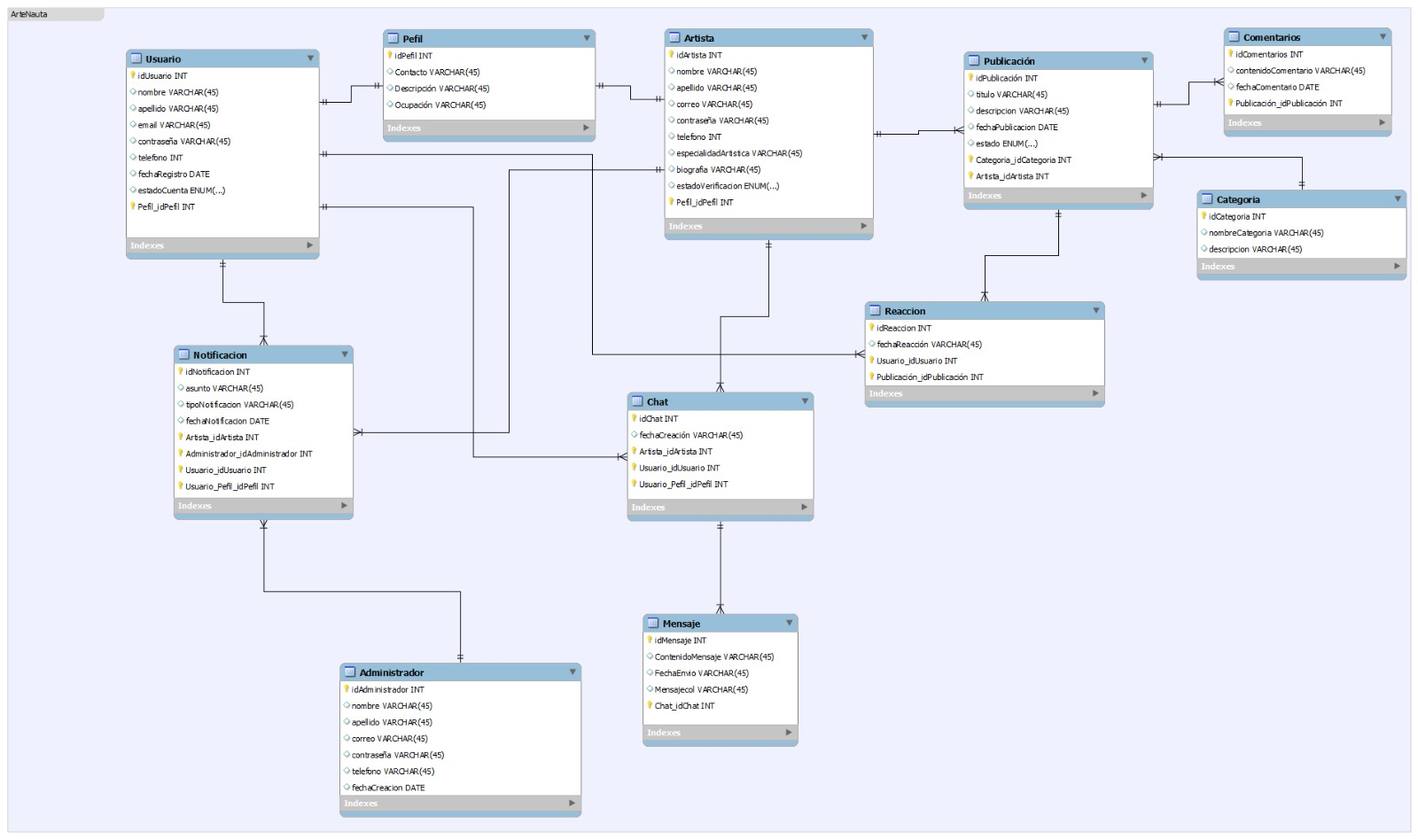
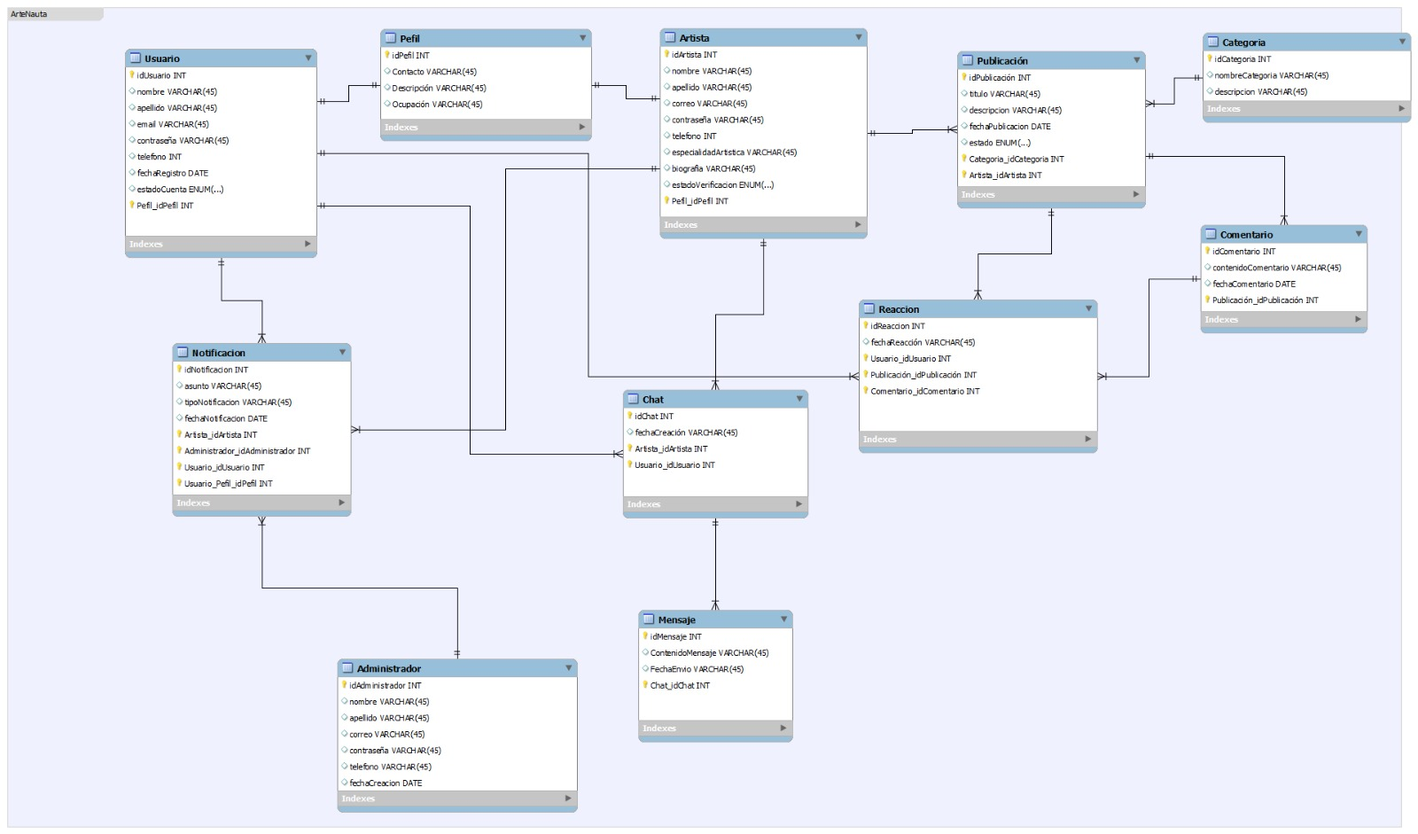
Modelo relacional y diccionario de datos
Corrección

diff --git a/Segundo trimestre/Diccionario de datos.html b/Segundo trimestre/Diccionario de datos.html
@@ -1,0 +1,97 @@
+<!DOCTYPE html>
+<html lang="en">
+<head>
+  <meta charset="UTF-8">
+  <meta name="author" content="ChakibL">
+  <meta name="description" content="mydb Data Dictionary.">
+  <title>mydb Data Dictionary</title>
+  <script src="https://ajax.googleapis.com/ajax/libs/jquery/3.1.0/jquery.min.js"></script>
+  <script>
+    // Highlight table corresponding to the current fragment in the URL.
+    $(document).ready(function(){
+      $("a").click(function() {
+        var elem = $(this);
+        // Remove all classes from tables.
+        $("table").removeClass( "focused" )
+        // Get a.href value and extract its fragment id.
+        var id = elem.attr("href");
+        // Highlight table using fragment id.
+        $(id).addClass( "focused" );
+      });
+    });
+  </script>
+  <style type="text/css">
+    a {
+        text-decoration: none;
+    }
+    abbr {
+        cursor: help;
+    }
+    header {
+        color: #6A6A6A;
+        text-align: right;
+    }
+    table {
+        border-collapse: collapse;
+        margin-bottom: 30px;
+        width: 100%;
+    }
+    table caption {
+        font-size: 120%;
+        font-weight: bold;
+    }
+    table, td, th {
+        border-color: silver;
+        border-style: solid;
+        border-width: 1px;
+    }
+    caption {
+        color: black;
+    }
+    td, th {
+        padding: 1em;
+    }
+    tr:hover {
+        color: #333;
+        background-color: #F2F2F2;
+    }
+    th {
+        background-color: #F5F5F5;
+    }
+    td {
+        color: #6A6A6A;
+    }
+    ul {
+        font-style: italic;
+    }
+    .centered {
+        text-align: center;
+    }
+    .field {
+        color: #4C4C4C;
+        font-weight: bold;
+    }
+    .focused {
+        outline-color: aqua;
+        outline-style: solid;
+        outline-width: thin;
+    }
+  </style>
+</head>
+
+<body>
+  <header>
+    <h1>mydb<br> Data Dictionary</h1>
+    <p>
+      <em>2025-12-11</em>
+    </p>
+    <p>
+      <em></em>
+    </p>
+  </header>
+
+  <nav><h2>Index</h2><ul><li><a href='#Administrador'>Administrador</a></li><li><a href='#Artista'>Artista</a></li><li><a href='#Categoria'>Categoria</a></li><li><a href='#Chat'>Chat</a></li><li><a href='#Comentario'>Comentario</a></li><li><a href='#Mensaje'>Mensaje</a></li><li><a href='#Notificacion'>Notificacion</a></li><li><a href='#Pefil'>Pefil</a></li><li><a href='#Publicación'>Publicación</a></li><li><a href='#Reaccion'>Reaccion</a></li><li><a href='#Usuario'>Usuario</a></li></ul></nav>
+
+  <div><table id='Administrador'><caption>Administrador</caption><tr><td colspan='12'></td></tr><tr><th>Column name</th><th>DataType</th><th><abbr title='Primary Key'>PK</abbr></th><th><abbr title='Foreign Key'>FK</abbr></th><th><abbr title='Not Null'>NN</abbr></th><th><abbr title='Unique'>UQ</abbr></th><th><abbr title='Binary'>BIN</abbr></th><th><abbr title='Unsigned'>UN</abbr></th><th><abbr title='Zero Fill'>ZF</abbr></th><th><abbr title='Auto Increment'>AI</abbr></th><th>Default</th><th>Comment</th></tr><tr><td class='field'>idAdministrador</td><td>INT</td><td class='centered'>&#10004;</td><td class='centered'>&nbsp;</td><td class='centered'>&#10004;</td><td class='centered'>&nbsp;</td><td class='centered'>&nbsp;</td><td class='centered'>&nbsp;</td><td class='centered'>&nbsp;</td><td class='centered'>&nbsp;</td><td></td><td>Identificador del administrador</td></tr><tr><td class='field'>nombre</td><td>VARCHAR(45)</td><td class='centered'>&nbsp;</td><td class='centered'>&nbsp;</td><td class='centered'>&nbsp;</td><td class='centered'>&nbsp;</td><td class='centered'>&nbsp;</td><td class='centered'>&nbsp;</td><td class='centered'>&nbsp;</td><td class='centered'>&nbsp;</td><td></td><td>Nombre del administrador</td></tr><tr><td class='field'>apellido</td><td>VARCHAR(45)</td><td class='centered'>&nbsp;</td><td class='centered'>&nbsp;</td><td class='centered'>&nbsp;</td><td class='centered'>&nbsp;</td><td class='centered'>&nbsp;</td><td class='centered'>&nbsp;</td><td class='centered'>&nbsp;</td><td class='centered'>&nbsp;</td><td></td><td>Apellido del administrador</td></tr><tr><td class='field'>correo</td><td>VARCHAR(45)</td><td class='centered'>&nbsp;</td><td class='centered'>&nbsp;</td><td class='centered'>&nbsp;</td><td class='centered'>&nbsp;</td><td class='centered'>&nbsp;</td><td class='centered'>&nbsp;</td><td class='centered'>&nbsp;</td><td class='centered'>&nbsp;</td><td></td><td>Correo electronico del administrador</td></tr><tr><td class='field'>contraseña</td><td>VARCHAR(45)</td><td class='centered'>&nbsp;</td><td class='centered'>&nbsp;</td><td class='centered'>&nbsp;</td><td class='centered'>&nbsp;</td><td class='centered'>&nbsp;</td><td class='centered'>&nbsp;</td><td class='centered'>&nbsp;</td><td class='centered'>&nbsp;</td><td></td><td>Contraseña de ingreso del administrador</td></tr><tr><td class='field'>telefono</td><td>VARCHAR(45)</td><td class='centered'>&nbsp;</td><td class='centered'>&nbsp;</td><td class='centered'>&nbsp;</td><td class='centered'>&nbsp;</td><td class='centered'>&nbsp;</td><td class='centered'>&nbsp;</td><td class='centered'>&nbsp;</td><td class='centered'>&nbsp;</td><td></td><td>Telefono de contacto</td></tr><tr><td class='field'>fechaCreacion</td><td>DATE</td><td class='centered'>&nbsp;</td><td class='centered'>&nbsp;</td><td class='centered'>&nbsp;</td><td class='centered'>&nbsp;</td><td class='centered'>&nbsp;</td><td class='centered'>&nbsp;</td><td class='centered'>&nbsp;</td><td class='centered'>&nbsp;</td><td></td><td>Fecha en la cual se creo el administrador</td></tr></table><table id='Artista'><caption>Artista</caption><tr><td colspan='12'></td></tr><tr><th>Column name</th><th>DataType</th><th><abbr title='Primary Key'>PK</abbr></th><th><abbr title='Foreign Key'>FK</abbr></th><th><abbr title='Not Null'>NN</abbr></th><th><abbr title='Unique'>UQ</abbr></th><th><abbr title='Binary'>BIN</abbr></th><th><abbr title='Unsigned'>UN</abbr></th><th><abbr title='Zero Fill'>ZF</abbr></th><th><abbr title='Auto Increment'>AI</abbr></th><th>Default</th><th>Comment</th></tr><tr><td class='field'>idArtista</td><td>INT</td><td class='centered'>&#10004;</td><td class='centered'>&nbsp;</td><td class='centered'>&#10004;</td><td class='centered'>&nbsp;</td><td class='centered'>&nbsp;</td><td class='centered'>&nbsp;</td><td class='centered'>&nbsp;</td><td class='centered'>&nbsp;</td><td></td><td>Identificador del artista</td></tr><tr><td class='field'>nombre</td><td>VARCHAR(45)</td><td class='centered'>&nbsp;</td><td class='centered'>&nbsp;</td><td class='centered'>&nbsp;</td><td class='centered'>&nbsp;</td><td class='centered'>&nbsp;</td><td class='centered'>&nbsp;</td><td class='centered'>&nbsp;</td><td class='centered'>&nbsp;</td><td></td><td>Nombre ingresado por el artista</td></tr><tr><td class='field'>apellido</td><td>VARCHAR(45)</td><td class='centered'>&nbsp;</td><td class='centered'>&nbsp;</td><td class='centered'>&nbsp;</td><td class='centered'>&nbsp;</td><td class='centered'>&nbsp;</td><td class='centered'>&nbsp;</td><td class='centered'>&nbsp;</td><td class='centered'>&nbsp;</td><td></td><td>Apellido ingresado por el artista</td></tr><tr><td class='field'>correo</td><td>VARCHAR(45)</td><td class='centered'>&nbsp;</td><td class='centered'>&nbsp;</td><td class='centered'>&nbsp;</td><td class='centered'>&nbsp;</td><td class='centered'>&nbsp;</td><td class='centered'>&nbsp;</td><td class='centered'>&nbsp;</td><td class='centered'>&nbsp;</td><td></td><td>Correo electronico del artista</td></tr><tr><td class='field'>contraseña</td><td>VARCHAR(45)</td><td class='centered'>&nbsp;</td><td class='centered'>&nbsp;</td><td class='centered'>&nbsp;</td><td class='centered'>&nbsp;</td><td class='centered'>&nbsp;</td><td class='centered'>&nbsp;</td><td class='centered'>&nbsp;</td><td class='centered'>&nbsp;</td><td></td><td>Contraseña de ingreso del artista para acceder al sistema</td></tr><tr><td class='field'>telefono</td><td>INT</td><td class='centered'>&nbsp;</td><td class='centered'>&nbsp;</td><td class='centered'>&nbsp;</td><td class='centered'>&nbsp;</td><td class='centered'>&nbsp;</td><td class='centered'>&nbsp;</td><td class='centered'>&nbsp;</td><td class='centered'>&nbsp;</td><td></td><td>Telefono de contacto del artista</td></tr><tr><td class='field'>especialidadArtistica</td><td>VARCHAR(45)</td><td class='centered'>&nbsp;</td><td class='centered'>&nbsp;</td><td class='centered'>&nbsp;</td><td class='centered'>&nbsp;</td><td class='centered'>&nbsp;</td><td class='centered'>&nbsp;</td><td class='centered'>&nbsp;</td><td class='centered'>&nbsp;</td><td></td><td>Tipo de especialidad del artista</td></tr><tr><td class='field'>biografia</td><td>VARCHAR(45)</td><td class='centered'>&nbsp;</td><td class='centered'>&nbsp;</td><td class='centered'>&nbsp;</td><td class='centered'>&nbsp;</td><td class='centered'>&nbsp;</td><td class='centered'>&nbsp;</td><td class='centered'>&nbsp;</td><td class='centered'>&nbsp;</td><td></td><td>Informacion personal del Artista</td></tr><tr><td class='field'>estadoVerificacion</td><td>ENUM('Activo', 'Desactivo', 'Espera')</td><td class='centered'>&nbsp;</td><td class='centered'>&nbsp;</td><td class='centered'>&nbsp;</td><td class='centered'>&nbsp;</td><td class='centered'>&nbsp;</td><td class='centered'>&nbsp;</td><td class='centered'>&nbsp;</td><td class='centered'>&nbsp;</td><td></td><td>Estado de la solicitud de la verificacion</td></tr><tr><td class='field'>Pefil_idPefil</td><td>INT</td><td class='centered'>&#10004;</td><td class='centered'><a href='#PefilPefil'>&#10004;</a></td><td class='centered'>&#10004;</td><td class='centered'>&nbsp;</td><td class='centered'>&nbsp;</td><td class='centered'>&nbsp;</td><td class='centered'>&nbsp;</td><td class='centered'>&nbsp;</td><td></td><td>Conexion entre Artista y Perfil</td></tr></table><table id='Categoria'><caption>Categoria</caption><tr><td colspan='12'></td></tr><tr><th>Column name</th><th>DataType</th><th><abbr title='Primary Key'>PK</abbr></th><th><abbr title='Foreign Key'>FK</abbr></th><th><abbr title='Not Null'>NN</abbr></th><th><abbr title='Unique'>UQ</abbr></th><th><abbr title='Binary'>BIN</abbr></th><th><abbr title='Unsigned'>UN</abbr></th><th><abbr title='Zero Fill'>ZF</abbr></th><th><abbr title='Auto Increment'>AI</abbr></th><th>Default</th><th>Comment</th></tr><tr><td class='field'>idCategoria</td><td>INT</td><td class='centered'>&#10004;</td><td class='centered'>&nbsp;</td><td class='centered'>&#10004;</td><td class='centered'>&nbsp;</td><td class='centered'>&nbsp;</td><td class='centered'>&nbsp;</td><td class='centered'>&nbsp;</td><td class='centered'>&nbsp;</td><td></td><td>Identificador de la categoria de la publicacion</td></tr><tr><td class='field'>nombreCategoria</td><td>VARCHAR(45)</td><td class='centered'>&nbsp;</td><td class='centered'>&nbsp;</td><td class='centered'>&nbsp;</td><td class='centered'>&nbsp;</td><td class='centered'>&nbsp;</td><td class='centered'>&nbsp;</td><td class='centered'>&nbsp;</td><td class='centered'>&nbsp;</td><td></td><td>Nombre de la categoria a la que pertenece</td></tr><tr><td class='field'>descripcion</td><td>VARCHAR(45)</td><td class='centered'>&nbsp;</td><td class='centered'>&nbsp;</td><td class='centered'>&nbsp;</td><td class='centered'>&nbsp;</td><td class='centered'>&nbsp;</td><td class='centered'>&nbsp;</td><td class='centered'>&nbsp;</td><td class='centered'>&nbsp;</td><td></td><td>Descripcion e informacion de la categoria</td></tr></table><table id='Chat'><caption>Chat</caption><tr><td colspan='12'></td></tr><tr><th>Column name</th><th>DataType</th><th><abbr title='Primary Key'>PK</abbr></th><th><abbr title='Foreign Key'>FK</abbr></th><th><abbr title='Not Null'>NN</abbr></th><th><abbr title='Unique'>UQ</abbr></th><th><abbr title='Binary'>BIN</abbr></th><th><abbr title='Unsigned'>UN</abbr></th><th><abbr title='Zero Fill'>ZF</abbr></th><th><abbr title='Auto Increment'>AI</abbr></th><th>Default</th><th>Comment</th></tr><tr><td class='field'>idChat</td><td>INT</td><td class='centered'>&#10004;</td><td class='centered'>&nbsp;</td><td class='centered'>&#10004;</td><td class='centered'>&nbsp;</td><td class='centered'>&nbsp;</td><td class='centered'>&nbsp;</td><td class='centered'>&nbsp;</td><td class='centered'>&nbsp;</td><td></td><td>Identificador del chat</td></tr><tr><td class='field'>fechaCreación</td><td>VARCHAR(45)</td><td class='centered'>&nbsp;</td><td class='centered'>&nbsp;</td><td class='centered'>&nbsp;</td><td class='centered'>&nbsp;</td><td class='centered'>&nbsp;</td><td class='centered'>&nbsp;</td><td class='centered'>&nbsp;</td><td class='centered'>&nbsp;</td><td></td><td>Fecha en la cual se inicio el chat</td></tr><tr><td class='field'>Artista_idArtista</td><td>INT</td><td class='centered'>&#10004;</td><td class='centered'><a href='#ArtistaArtista'>&#10004;</a></td><td class='centered'>&#10004;</td><td class='centered'>&nbsp;</td><td class='centered'>&nbsp;</td><td class='centered'>&nbsp;</td><td class='centered'>&nbsp;</td><td class='centered'>&nbsp;</td><td></td><td>Conexion entre el Chat y el Artista</td></tr><tr><td class='field'>Usuario_idUsuario</td><td>INT</td><td class='centered'>&#10004;</td><td class='centered'><a href='#UsuarioUsuario'>&#10004;</a></td><td class='centered'>&#10004;</td><td class='centered'>&nbsp;</td><td class='centered'>&nbsp;</td><td class='centered'>&nbsp;</td><td class='centered'>&nbsp;</td><td class='centered'>&nbsp;</td><td></td><td>Conexion entre el Chat y el Usuario</td></tr></table><table id='Comentario'><caption>Comentario</caption><tr><td colspan='12'></td></tr><tr><th>Column name</th><th>DataType</th><th><abbr title='Primary Key'>PK</abbr></th><th><abbr title='Foreign Key'>FK</abbr></th><th><abbr title='Not Null'>NN</abbr></th><th><abbr title='Unique'>UQ</abbr></th><th><abbr title='Binary'>BIN</abbr></th><th><abbr title='Unsigned'>UN</abbr></th><th><abbr title='Zero Fill'>ZF</abbr></th><th><abbr title='Auto Increment'>AI</abbr></th><th>Default</th><th>Comment</th></tr><tr><td class='field'>idComentario</td><td>INT</td><td class='centered'>&#10004;</td><td class='centered'>&nbsp;</td><td class='centered'>&#10004;</td><td class='centered'>&nbsp;</td><td class='centered'>&nbsp;</td><td class='centered'>&nbsp;</td><td class='centered'>&nbsp;</td><td class='centered'>&nbsp;</td><td></td><td>Identificador del comentario</td></tr><tr><td class='field'>contenidoComentario</td><td>VARCHAR(45)</td><td class='centered'>&nbsp;</td><td class='centered'>&nbsp;</td><td class='centered'>&nbsp;</td><td class='centered'>&nbsp;</td><td class='centered'>&nbsp;</td><td class='centered'>&nbsp;</td><td class='centered'>&nbsp;</td><td class='centered'>&nbsp;</td><td></td><td>Contenido del comentario</td></tr><tr><td class='field'>fechaComentario</td><td>DATE</td><td class='centered'>&nbsp;</td><td class='centered'>&nbsp;</td><td class='centered'>&nbsp;</td><td class='centered'>&nbsp;</td><td class='centered'>&nbsp;</td><td class='centered'>&nbsp;</td><td class='centered'>&nbsp;</td><td class='centered'>&nbsp;</td><td></td><td>Fecha de envio del comentario</td></tr><tr><td class='field'>Publicación_idPublicación</td><td>INT</td><td class='centered'>&#10004;</td><td class='centered'><a href='#PublicaciónPublicación'>&#10004;</a></td><td class='centered'>&#10004;</td><td class='centered'>&nbsp;</td><td class='centered'>&nbsp;</td><td class='centered'>&nbsp;</td><td class='centered'>&nbsp;</td><td class='centered'>&nbsp;</td><td></td><td>Conexion entre Comentario y Publicacion</td></tr></table><table id='Mensaje'><caption>Mensaje</caption><tr><td colspan='12'></td></tr><tr><th>Column name</th><th>DataType</th><th><abbr title='Primary Key'>PK</abbr></th><th><abbr title='Foreign Key'>FK</abbr></th><th><abbr title='Not Null'>NN</abbr></th><th><abbr title='Unique'>UQ</abbr></th><th><abbr title='Binary'>BIN</abbr></th><th><abbr title='Unsigned'>UN</abbr></th><th><abbr title='Zero Fill'>ZF</abbr></th><th><abbr title='Auto Increment'>AI</abbr></th><th>Default</th><th>Comment</th></tr><tr><td class='field'>idMensaje</td><td>INT</td><td class='centered'>&#10004;</td><td class='centered'>&nbsp;</td><td class='centered'>&#10004;</td><td class='centered'>&nbsp;</td><td class='centered'>&nbsp;</td><td class='centered'>&nbsp;</td><td class='centered'>&nbsp;</td><td class='centered'>&nbsp;</td><td></td><td>Identificador del mensaje</td></tr><tr><td class='field'>ContenidoMensaje</td><td>VARCHAR(45)</td><td class='centered'>&nbsp;</td><td class='centered'>&nbsp;</td><td class='centered'>&nbsp;</td><td class='centered'>&nbsp;</td><td class='centered'>&nbsp;</td><td class='centered'>&nbsp;</td><td class='centered'>&nbsp;</td><td class='centered'>&nbsp;</td><td></td><td>Contenido del mensaje</td></tr><tr><td class='field'>FechaEnvio</td><td>VARCHAR(45)</td><td class='centered'>&nbsp;</td><td class='centered'>&nbsp;</td><td class='centered'>&nbsp;</td><td class='centered'>&nbsp;</td><td class='centered'>&nbsp;</td><td class='centered'>&nbsp;</td><td class='centered'>&nbsp;</td><td class='centered'>&nbsp;</td><td></td><td>Fecha en la cual se envio el mensaje</td></tr><tr><td class='field'>Chat_idChat</td><td>INT</td><td class='centered'>&#10004;</td><td class='centered'><a href='#ChatChat'>&#10004;</a></td><td class='centered'>&#10004;</td><td class='centered'>&nbsp;</td><td class='centered'>&nbsp;</td><td class='centered'>&nbsp;</td><td class='centered'>&nbsp;</td><td class='centered'>&nbsp;</td><td></td><td>Conexion entre Mensaje y Chat</td></tr></table><table id='Notificacion'><caption>Notificacion</caption><tr><td colspan='12'></td></tr><tr><th>Column name</th><th>DataType</th><th><abbr title='Primary Key'>PK</abbr></th><th><abbr title='Foreign Key'>FK</abbr></th><th><abbr title='Not Null'>NN</abbr></th><th><abbr title='Unique'>UQ</abbr></th><th><abbr title='Binary'>BIN</abbr></th><th><abbr title='Unsigned'>UN</abbr></th><th><abbr title='Zero Fill'>ZF</abbr></th><th><abbr title='Auto Increment'>AI</abbr></th><th>Default</th><th>Comment</th></tr><tr><td class='field'>idNotificacion</td><td>INT</td><td class='centered'>&#10004;</td><td class='centered'>&nbsp;</td><td class='centered'>&#10004;</td><td class='centered'>&nbsp;</td><td class='centered'>&nbsp;</td><td class='centered'>&nbsp;</td><td class='centered'>&nbsp;</td><td class='centered'>&nbsp;</td><td></td><td>Identificador de la notificacion</td></tr><tr><td class='field'>asunto</td><td>VARCHAR(45)</td><td class='centered'>&nbsp;</td><td class='centered'>&nbsp;</td><td class='centered'>&nbsp;</td><td class='centered'>&nbsp;</td><td class='centered'>&nbsp;</td><td class='centered'>&nbsp;</td><td class='centered'>&nbsp;</td><td class='centered'>&nbsp;</td><td></td><td>Contenido de la notificacion enviada</td></tr><tr><td class='field'>tipoNotificacion</td><td>VARCHAR(45)</td><td class='centered'>&nbsp;</td><td class='centered'>&nbsp;</td><td class='centered'>&nbsp;</td><td class='centered'>&nbsp;</td><td class='centered'>&nbsp;</td><td class='centered'>&nbsp;</td><td class='centered'>&nbsp;</td><td class='centered'>&nbsp;</td><td></td><td>Tipo de notificacion</td></tr><tr><td class='field'>fechaNotificacion</td><td>DATE</td><td class='centered'>&nbsp;</td><td class='centered'>&nbsp;</td><td class='centered'>&nbsp;</td><td class='centered'>&nbsp;</td><td class='centered'>&nbsp;</td><td class='centered'>&nbsp;</td><td class='centered'>&nbsp;</td><td class='centered'>&nbsp;</td><td></td><td>Fecha y hora del envio de la notificacion</td></tr><tr><td class='field'>Artista_idArtista</td><td>INT</td><td class='centered'>&#10004;</td><td class='centered'><a href='#ArtistaArtista'>&#10004;</a></td><td class='centered'>&#10004;</td><td class='centered'>&nbsp;</td><td class='centered'>&nbsp;</td><td class='centered'>&nbsp;</td><td class='centered'>&nbsp;</td><td class='centered'>&nbsp;</td><td></td><td>Conexion entre la Notificacion y el artista</td></tr><tr><td class='field'>Administrador_idAdministrador</td><td>INT</td><td class='centered'>&#10004;</td><td class='centered'><a href='#AdministradorAdministrador'>&#10004;</a></td><td class='centered'>&#10004;</td><td class='centered'>&nbsp;</td><td class='centered'>&nbsp;</td><td class='centered'>&nbsp;</td><td class='centered'>&nbsp;</td><td class='centered'>&nbsp;</td><td></td><td>Conexion entre la Notificacion y el Administrador</td></tr><tr><td class='field'>Usuario_idUsuario</td><td>INT</td><td class='centered'>&#10004;</td><td class='centered'><a href='#UsuarioUsuario'>&#10004;</a></td><td class='centered'>&#10004;</td><td class='centered'>&nbsp;</td><td class='centered'>&nbsp;</td><td class='centered'>&nbsp;</td><td class='centered'>&nbsp;</td><td class='centered'>&nbsp;</td><td></td><td>Conexion entre la Notificacion y el Usuario</td></tr><tr><td class='field'>Usuario_Pefil_idPefil</td><td>INT</td><td class='centered'>&#10004;</td><td class='centered'><a href='#Usuario_PefilPefil'>&#10004;</a></td><td class='centered'>&#10004;</td><td class='centered'>&nbsp;</td><td class='centered'>&nbsp;</td><td class='centered'>&nbsp;</td><td class='centered'>&nbsp;</td><td class='centered'>&nbsp;</td><td></td><td>Conexion entre la Notificacion y el artista</td></tr></table><table id='Pefil'><caption>Pefil</caption><tr><td colspan='12'></td></tr><tr><th>Column name</th><th>DataType</th><th><abbr title='Primary Key'>PK</abbr></th><th><abbr title='Foreign Key'>FK</abbr></th><th><abbr title='Not Null'>NN</abbr></th><th><abbr title='Unique'>UQ</abbr></th><th><abbr title='Binary'>BIN</abbr></th><th><abbr title='Unsigned'>UN</abbr></th><th><abbr title='Zero Fill'>ZF</abbr></th><th><abbr title='Auto Increment'>AI</abbr></th><th>Default</th><th>Comment</th></tr><tr><td class='field'>idPefil</td><td>INT</td><td class='centered'>&#10004;</td><td class='centered'>&nbsp;</td><td class='centered'>&#10004;</td><td class='centered'>&nbsp;</td><td class='centered'>&nbsp;</td><td class='centered'>&nbsp;</td><td class='centered'>&nbsp;</td><td class='centered'>&nbsp;</td><td></td><td>Identificador del perfil</td></tr><tr><td class='field'>Contacto</td><td>VARCHAR(45)</td><td class='centered'>&nbsp;</td><td class='centered'>&nbsp;</td><td class='centered'>&nbsp;</td><td class='centered'>&nbsp;</td><td class='centered'>&nbsp;</td><td class='centered'>&nbsp;</td><td class='centered'>&nbsp;</td><td class='centered'>&nbsp;</td><td></td><td>Medios de contacto personal</td></tr><tr><td class='field'>Descripción</td><td>VARCHAR(45)</td><td class='centered'>&nbsp;</td><td class='centered'>&nbsp;</td><td class='centered'>&nbsp;</td><td class='centered'>&nbsp;</td><td class='centered'>&nbsp;</td><td class='centered'>&nbsp;</td><td class='centered'>&nbsp;</td><td class='centered'>&nbsp;</td><td></td><td>Descripcion personalizada</td></tr><tr><td class='field'>Ocupación</td><td>VARCHAR(45)</td><td class='centered'>&nbsp;</td><td class='centered'>&nbsp;</td><td class='centered'>&nbsp;</td><td class='centered'>&nbsp;</td><td class='centered'>&nbsp;</td><td class='centered'>&nbsp;</td><td class='centered'>&nbsp;</td><td class='centered'>&nbsp;</td><td></td><td>Informacion del tipo de ocupacion</td></tr></table><table id='Publicación'><caption>Publicación</caption><tr><td colspan='12'></td></tr><tr><th>Column name</th><th>DataType</th><th><abbr title='Primary Key'>PK</abbr></th><th><abbr title='Foreign Key'>FK</abbr></th><th><abbr title='Not Null'>NN</abbr></th><th><abbr title='Unique'>UQ</abbr></th><th><abbr title='Binary'>BIN</abbr></th><th><abbr title='Unsigned'>UN</abbr></th><th><abbr title='Zero Fill'>ZF</abbr></th><th><abbr title='Auto Increment'>AI</abbr></th><th>Default</th><th>Comment</th></tr><tr><td class='field'>idPublicación</td><td>INT</td><td class='centered'>&#10004;</td><td class='centered'>&nbsp;</td><td class='centered'>&#10004;</td><td class='centered'>&nbsp;</td><td class='centered'>&nbsp;</td><td class='centered'>&nbsp;</td><td class='centered'>&nbsp;</td><td class='centered'>&nbsp;</td><td></td><td>Identificacion de la publicacion</td></tr><tr><td class='field'>titulo</td><td>VARCHAR(45)</td><td class='centered'>&nbsp;</td><td class='centered'>&nbsp;</td><td class='centered'>&nbsp;</td><td class='centered'>&nbsp;</td><td class='centered'>&nbsp;</td><td class='centered'>&nbsp;</td><td class='centered'>&nbsp;</td><td class='centered'>&nbsp;</td><td></td><td>Titulo de la publicacion</td></tr><tr><td class='field'>descripcion</td><td>VARCHAR(45)</td><td class='centered'>&nbsp;</td><td class='centered'>&nbsp;</td><td class='centered'>&nbsp;</td><td class='centered'>&nbsp;</td><td class='centered'>&nbsp;</td><td class='centered'>&nbsp;</td><td class='centered'>&nbsp;</td><td class='centered'>&nbsp;</td><td></td><td>Descripcion de la publicacion</td></tr><tr><td class='field'>fechaPublicacion</td><td>DATE</td><td class='centered'>&nbsp;</td><td class='centered'>&nbsp;</td><td class='centered'>&nbsp;</td><td class='centered'>&nbsp;</td><td class='centered'>&nbsp;</td><td class='centered'>&nbsp;</td><td class='centered'>&nbsp;</td><td class='centered'>&nbsp;</td><td></td><td>Fecha de la creacion de la publicacion</td></tr><tr><td class='field'>estado</td><td>ENUM('Activo', 'Dsactivado')</td><td class='centered'>&nbsp;</td><td class='centered'>&nbsp;</td><td class='centered'>&nbsp;</td><td class='centered'>&nbsp;</td><td class='centered'>&nbsp;</td><td class='centered'>&nbsp;</td><td class='centered'>&nbsp;</td><td class='centered'>&nbsp;</td><td></td><td>Estado de la publicacion</td></tr><tr><td class='field'>Categoria_idCategoria</td><td>INT</td><td class='centered'>&#10004;</td><td class='centered'><a href='#CategoriaCategoria'>&#10004;</a></td><td class='centered'>&#10004;</td><td class='centered'>&nbsp;</td><td class='centered'>&nbsp;</td><td class='centered'>&nbsp;</td><td class='centered'>&nbsp;</td><td class='centered'>&nbsp;</td><td></td><td>Conexion entre Publicacion y Categoria</td></tr><tr><td class='field'>Artista_idArtista</td><td>INT</td><td class='centered'>&#10004;</td><td class='centered'><a href='#ArtistaArtista'>&#10004;</a></td><td class='centered'>&#10004;</td><td class='centered'>&nbsp;</td><td class='centered'>&nbsp;</td><td class='centered'>&nbsp;</td><td class='centered'>&nbsp;</td><td class='centered'>&nbsp;</td><td></td><td>Conexion entre Publicacion y Artista</td></tr></table><table id='Reaccion'><caption>Reaccion</caption><tr><td colspan='12'></td></tr><tr><th>Column name</th><th>DataType</th><th><abbr title='Primary Key'>PK</abbr></th><th><abbr title='Foreign Key'>FK</abbr></th><th><abbr title='Not Null'>NN</abbr></th><th><abbr title='Unique'>UQ</abbr></th><th><abbr title='Binary'>BIN</abbr></th><th><abbr title='Unsigned'>UN</abbr></th><th><abbr title='Zero Fill'>ZF</abbr></th><th><abbr title='Auto Increment'>AI</abbr></th><th>Default</th><th>Comment</th></tr><tr><td class='field'>idReaccion</td><td>INT</td><td class='centered'>&#10004;</td><td class='centered'>&nbsp;</td><td class='centered'>&#10004;</td><td class='centered'>&nbsp;</td><td class='centered'>&nbsp;</td><td class='centered'>&nbsp;</td><td class='centered'>&nbsp;</td><td class='centered'>&nbsp;</td><td></td><td>Identificador de la reaccion</td></tr><tr><td class='field'>fechaReacción</td><td>VARCHAR(45)</td><td class='centered'>&nbsp;</td><td class='centered'>&nbsp;</td><td class='centered'>&nbsp;</td><td class='centered'>&nbsp;</td><td class='centered'>&nbsp;</td><td class='centered'>&nbsp;</td><td class='centered'>&nbsp;</td><td class='centered'>&nbsp;</td><td></td><td>Fecha en la cual se realizo la reaccion</td></tr><tr><td class='field'>Usuario_idUsuario</td><td>INT</td><td class='centered'>&#10004;</td><td class='centered'><a href='#UsuarioUsuario'>&#10004;</a></td><td class='centered'>&#10004;</td><td class='centered'>&nbsp;</td><td class='centered'>&nbsp;</td><td class='centered'>&nbsp;</td><td class='centered'>&nbsp;</td><td class='centered'>&nbsp;</td><td></td><td>Conexion entre Reaccion y usuario</td></tr><tr><td class='field'>Publicación_idPublicación</td><td>INT</td><td class='centered'>&#10004;</td><td class='centered'><a href='#PublicaciónPublicación'>&#10004;</a></td><td class='centered'>&#10004;</td><td class='centered'>&nbsp;</td><td class='centered'>&nbsp;</td><td class='centered'>&nbsp;</td><td class='centered'>&nbsp;</td><td class='centered'>&nbsp;</td><td></td><td>Conexion entre Reaccion y Publicacion</td></tr><tr><td class='field'>Comentario_idComentario</td><td>INT</td><td class='centered'>&#10004;</td><td class='centered'><a href='#ComentarioComentario'>&#10004;</a></td><td class='centered'>&#10004;</td><td class='centered'>&nbsp;</td><td class='centered'>&nbsp;</td><td class='centered'>&nbsp;</td><td class='centered'>&nbsp;</td><td class='centered'>&nbsp;</td><td></td><td>Conexion entre Reaccion y Comentario</td></tr></table><table id='Usuario'><caption>Usuario</caption><tr><td colspan='12'></td></tr><tr><th>Column name</th><th>DataType</th><th><abbr title='Primary Key'>PK</abbr></th><th><abbr title='Foreign Key'>FK</abbr></th><th><abbr title='Not Null'>NN</abbr></th><th><abbr title='Unique'>UQ</abbr></th><th><abbr title='Binary'>BIN</abbr></th><th><abbr title='Unsigned'>UN</abbr></th><th><abbr title='Zero Fill'>ZF</abbr></th><th><abbr title='Auto Increment'>AI</abbr></th><th>Default</th><th>Comment</th></tr><tr><td class='field'>idUsuario</td><td>INT</td><td class='centered'>&#10004;</td><td class='centered'>&nbsp;</td><td class='centered'>&#10004;</td><td class='centered'>&nbsp;</td><td class='centered'>&nbsp;</td><td class='centered'>&nbsp;</td><td class='centered'>&nbsp;</td><td class='centered'>&nbsp;</td><td></td><td>Identificador del usuario </td></tr><tr><td class='field'>nombre</td><td>VARCHAR(45)</td><td class='centered'>&nbsp;</td><td class='centered'>&nbsp;</td><td class='centered'>&nbsp;</td><td class='centered'>&nbsp;</td><td class='centered'>&nbsp;</td><td class='centered'>&nbsp;</td><td class='centered'>&nbsp;</td><td class='centered'>&nbsp;</td><td></td><td>Nombre ingresado del usuario</td></tr><tr><td class='field'>apellido</td><td>VARCHAR(45)</td><td class='centered'>&nbsp;</td><td class='centered'>&nbsp;</td><td class='centered'>&nbsp;</td><td class='centered'>&nbsp;</td><td class='centered'>&nbsp;</td><td class='centered'>&nbsp;</td><td class='centered'>&nbsp;</td><td class='centered'>&nbsp;</td><td></td><td>Apellido ingresado del usuario</td></tr><tr><td class='field'>email</td><td>VARCHAR(45)</td><td class='centered'>&nbsp;</td><td class='centered'>&nbsp;</td><td class='centered'>&nbsp;</td><td class='centered'>&nbsp;</td><td class='centered'>&nbsp;</td><td class='centered'>&nbsp;</td><td class='centered'>&nbsp;</td><td class='centered'>&nbsp;</td><td></td><td>Direccion de correo electronico</td></tr><tr><td class='field'>contraseña</td><td>VARCHAR(45)</td><td class='centered'>&nbsp;</td><td class='centered'>&nbsp;</td><td class='centered'>&nbsp;</td><td class='centered'>&nbsp;</td><td class='centered'>&nbsp;</td><td class='centered'>&nbsp;</td><td class='centered'>&nbsp;</td><td class='centered'>&nbsp;</td><td></td><td>Contraseña del usuario con la que ingresara al sistema</td></tr><tr><td class='field'>telefono</td><td>INT</td><td class='centered'>&nbsp;</td><td class='centered'>&nbsp;</td><td class='centered'>&nbsp;</td><td class='centered'>&nbsp;</td><td class='centered'>&nbsp;</td><td class='centered'>&nbsp;</td><td class='centered'>&nbsp;</td><td class='centered'>&nbsp;</td><td></td><td>Telefono de contacto del usuario</td></tr><tr><td class='field'>fechaRegistro</td><td>DATE</td><td class='centered'>&nbsp;</td><td class='centered'>&nbsp;</td><td class='centered'>&nbsp;</td><td class='centered'>&nbsp;</td><td class='centered'>&nbsp;</td><td class='centered'>&nbsp;</td><td class='centered'>&nbsp;</td><td class='centered'>&nbsp;</td><td></td><td>Fecha en la cual el usuario se registro al sistema</td></tr><tr><td class='field'>estadoCuenta</td><td>ENUM('Activo', 'Desactivado')</td><td class='centered'>&nbsp;</td><td class='centered'>&nbsp;</td><td class='centered'>&nbsp;</td><td class='centered'>&nbsp;</td><td class='centered'>&nbsp;</td><td class='centered'>&nbsp;</td><td class='centered'>&nbsp;</td><td class='centered'>&nbsp;</td><td></td><td>Estado del usuario y de su cuenta</td></tr><tr><td class='field'>Pefil_idPefil</td><td>INT</td><td class='centered'>&#10004;</td><td class='centered'><a href='#PefilPefil'>&#10004;</a></td><td class='centered'>&#10004;</td><td class='centered'>&nbsp;</td><td class='centered'>&nbsp;</td><td class='centered'>&nbsp;</td><td class='centered'>&nbsp;</td><td class='centered'>&nbsp;</td><td></td><td>Conexion entre Usuario y Perfil</td></tr></table></div>
+</body>
+</html>
